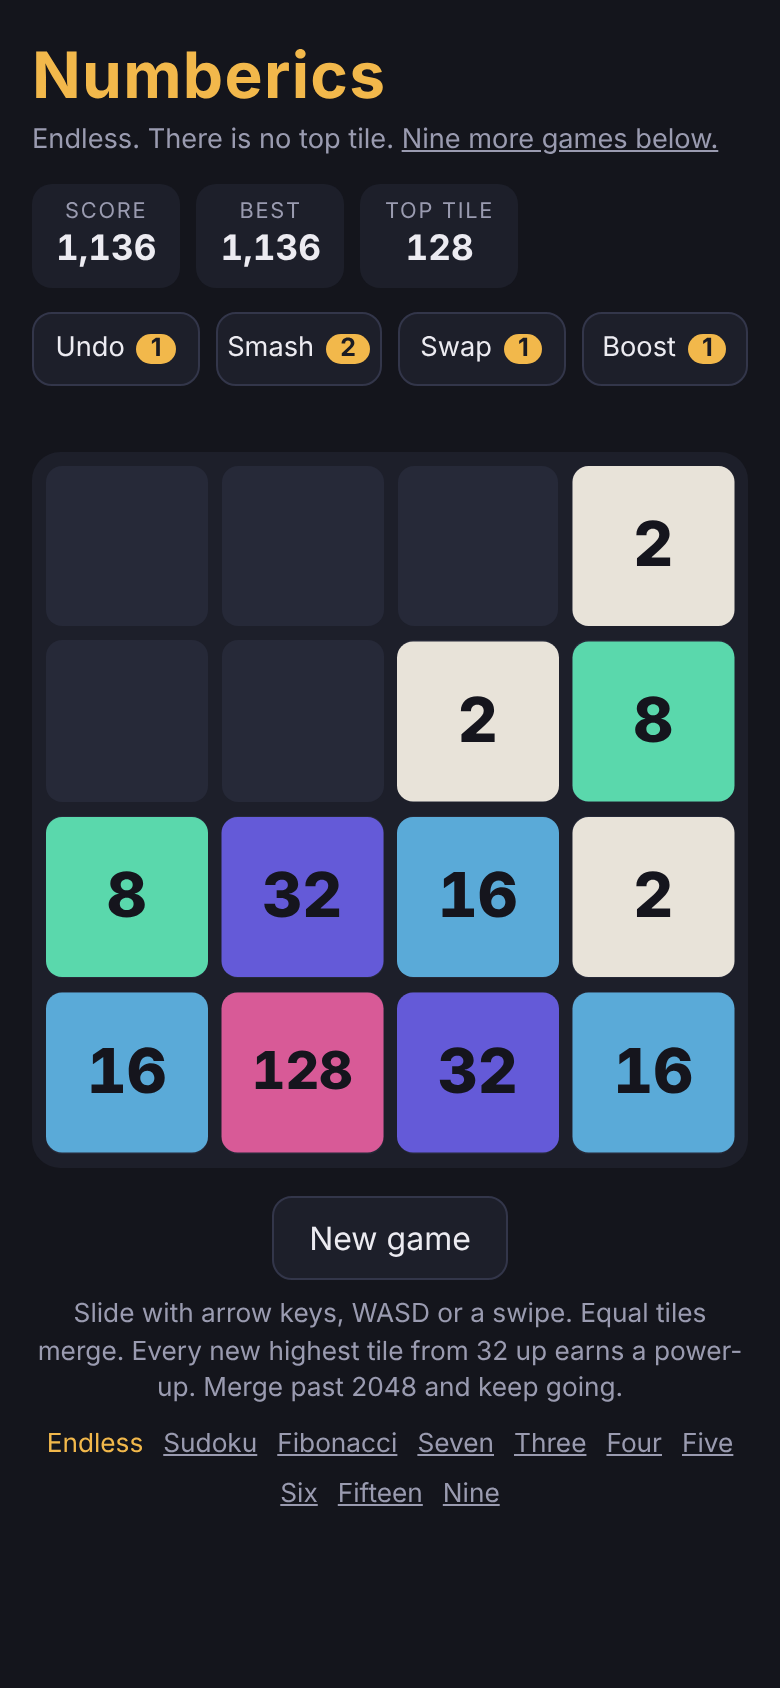
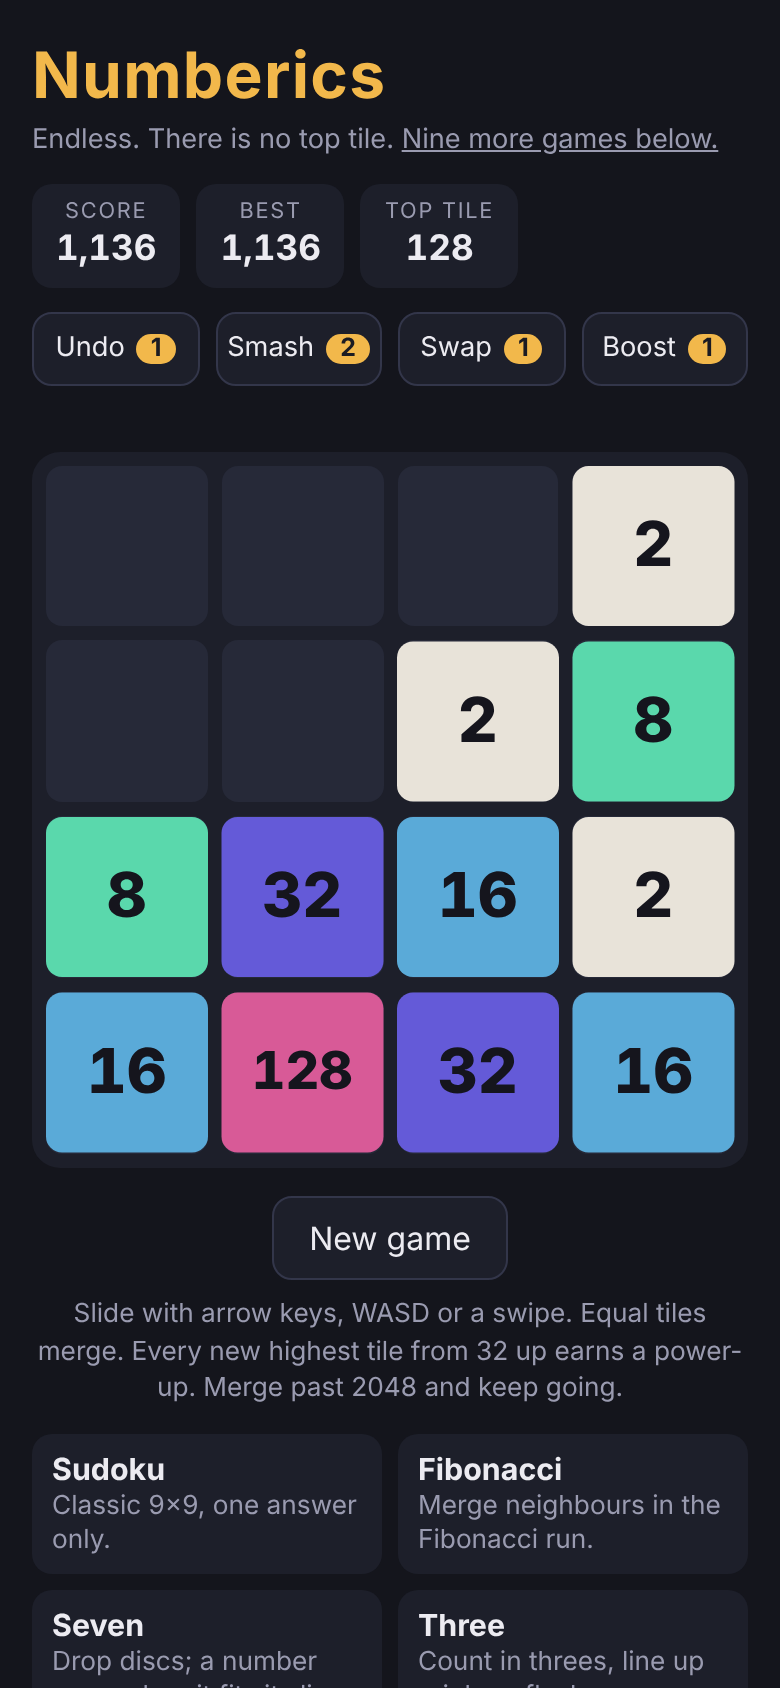
Home page lists every game with a one-line description
Round 2 cold #1: from Endless, bare names (Seven, Four) told a stranger
nothing. The home games row shows name + description cards; other pages keep
the quiet row with the description as a tooltip. Blurbs live in games.json and
nav.js mirrors them (tested).

diff --git a/shared/nav.js b/shared/nav.js
@@ -1,26 +1,35 @@
 /* SPDX-License-Identifier: Apache-2.0 | Copyright 2026 alvations (Melon Lab)
- * The quiet "More from Numberics" row. Usage in any page:
+ * The games row. Usage in any page (add data-detail on the home page for names with descriptions):
  *   <nav id="games" class="games" data-root="../" data-current="seven" aria-label="Numberics games"></nav>
  * LIVE mirrors the live entries of games.json (a test keeps them in sync). Static, so it works from file://. */
 (function () {
   "use strict";
   var LIVE = [
-    ["endless", "Endless", ""],
-    ["sudoku", "Sudoku", "sudoku/"],
-    ["fibonacci", "Fibonacci", "fibonacci/"],
-    ["seven", "Seven", "seven/"],
-    ["three", "Three", "three/"],
-    ["four", "Four", "four/"],
-    ["five", "Five", "five/"],
-    ["six", "Six", "six/"],
-    ["fifteen", "Fifteen", "fifteen/"],
-    ["nine", "Nine", "nine/"]
+    ["endless", "Endless", "", "2048 with no top tile."],
+    ["sudoku", "Sudoku", "sudoku/", "Classic 9x9, one answer only."],
+    ["fibonacci", "Fibonacci", "fibonacci/", "Merge neighbours in the Fibonacci run."],
+    ["seven", "Seven", "seven/", "Drop discs; a number pops when it fits its line."],
+    ["three", "Three", "three/", "Count in threes, line up rainbow flushes."],
+    ["four", "Four", "four/", "Four in a row, or four that make ten."],
+    ["five", "Five", "five/", "Add tiles onto tiles; at five they burst."],
+    ["six", "Six", "six/", "Signs between numbers until they make six."],
+    ["fifteen", "Fifteen", "fifteen/", "Claim three numbers that make fifteen."],
+    ["nine", "Nine", "nine/", "Take from the heaps; take the last to win."]
   ];
   var el = document.getElementById("games"); if (!el) return;
   var root = el.getAttribute("data-root") || "", cur = el.getAttribute("data-current");
+  // data-detail (the home page): every other game with its one-line description, so a stranger can tell
+  // what "Seven" or "Four" is (round 2, cold #1). Elsewhere: the quiet row, with the description as a tooltip.
+  var detail = el.hasAttribute("data-detail");
+  if (detail) el.classList.add("detail");
   LIVE.forEach(function (g) {
-    var a = document.createElement("a"); a.href = root + g[2] || "./"; a.textContent = g[1];
-    if (!g[2]) a.href = root || "./";
+    if (detail && g[0] === cur) return;
+    var a = document.createElement("a"); a.href = g[2] ? root + g[2] : (root || "./"); a.title = g[3];
+    if (detail) {
+      var b = document.createElement("b"); b.textContent = g[1];
+      var s = document.createElement("span"); s.textContent = g[3];
+      a.appendChild(b); a.appendChild(s);
+    } else a.textContent = g[1];
     if (g[0] === cur) a.setAttribute("aria-current", "page");
     el.appendChild(a);
   });

diff --git a/style.css b/style.css
@@ -80,3 +80,7 @@ a:focus-visible{ outline:2px solid var(--accent); outline-offset:2px; border-rad
 }
 .games{ display:flex; flex-wrap:wrap; justify-content:center; gap:6px 10px; margin:10px 0 4px; font-size:.82rem; }
 .games a{ color:var(--mute); } .games a[aria-current="page"]{ color:var(--accent); text-decoration:none; }
+.games.detail{ display:grid; grid-template-columns:1fr 1fr; gap:8px; margin:14px 0 4px; font-size:.82rem; }
+.games.detail a{ display:block; text-decoration:none; background:var(--panel); border:1px solid var(--line); border-radius:10px; padding:8px 10px; color:var(--mute); line-height:1.3; }
+.games.detail a b{ display:block; color:var(--ink); font-size:.95rem; } .games.detail a:hover{ border-color:#4b4f6a; }
+@media (max-width:340px){ .games.detail{ grid-template-columns:1fr; } }

diff --git a/tests/test-shared.js b/tests/test-shared.js
@@ -22,7 +22,7 @@ t("nav LIVE list matches the live games in games.json, in order", () => {
   const games = JSON.parse(fs.readFileSync(path.join(root, "games.json"), "utf8")).filter(g => g.status === "live");
   const src = fs.readFileSync(path.join(root, "shared/nav.js"), "utf8");
   const live = JSON.parse(src.match(/var LIVE = (\[[\s\S]*?\]);/)[1].replace(/'/g, '"'));
-  ok(JSON.stringify(live) === JSON.stringify(games.map(g => [g.id, g.name, g.path])), "nav: " + JSON.stringify(live));
+  ok(JSON.stringify(live) === JSON.stringify(games.map(g => [g.id, g.name, g.path, g.blurb])), "nav: " + JSON.stringify(live));
 });
 t("every games.json entry is well formed and paths are unique", () => {
   const games = JSON.parse(fs.readFileSync(path.join(root, "games.json"), "utf8"));

diff --git a/shared/theme.css b/shared/theme.css
@@ -78,3 +78,7 @@ a:focus-visible{ border-radius:6px; }
   .tile.pop,.tile.new{ animation:none; }
   .toast{ transition:opacity 200ms; } /* opacity is not motion */
 }
+.games.detail{ display:grid; grid-template-columns:1fr 1fr; gap:8px; margin:14px 0 4px; font-size:.82rem; }
+.games.detail a{ display:block; text-decoration:none; background:var(--panel); border:1px solid var(--line); border-radius:10px; padding:8px 10px; color:var(--mute); line-height:1.3; }
+.games.detail a b{ display:block; color:var(--ink); font-size:.95rem; } .games.detail a:hover{ border-color:#4b4f6a; }
+@media (max-width:340px){ .games.detail{ grid-template-columns:1fr; } }

diff --git a/index.html b/index.html
@@ -43,7 +43,7 @@
   </div>
   <p class="how">Slide with arrow keys, WASD or a swipe. Equal tiles merge. Every new highest tile from 32 up earns a power-up.
      Merge past 2048 and keep going.</p>
-  <nav id="games" class="games" data-root="" data-current="endless" aria-label="Numberics games"></nav>
+  <nav id="games" class="games" data-root="" data-current="endless" data-detail aria-label="Numberics games"></nav>
   <div id="toast" class="toast" role="status" aria-live="polite"></div>
 </main>
 <script src="shared/kit.js"></script>
